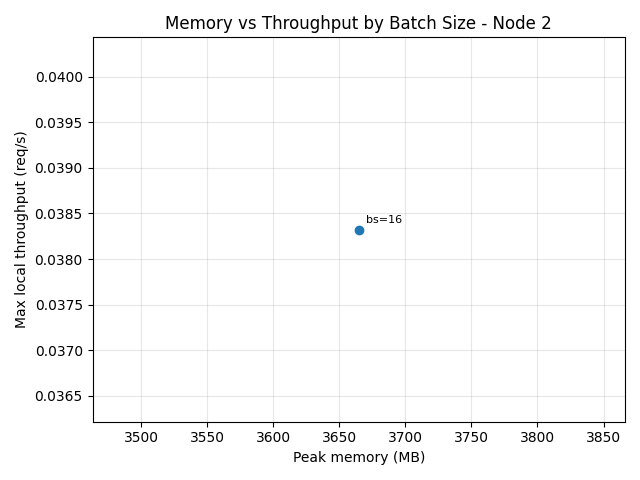
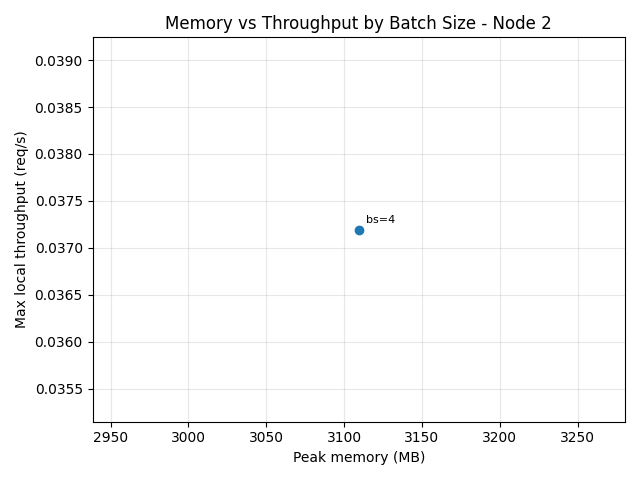
fixes for profiling

diff --git a/plot_profiling.py b/plot_profiling.py
@@ -52,7 +52,6 @@ def plot_local_throughput(dfs):
 def plot_peak_memory(dfs):
     """
     Show peak memory used by each node (single bar per node).
-    This directly satisfies: "Show the peak memory used by your processes per node".
     """
     nodes = []
     peaks = []
@@ -76,7 +75,6 @@ def plot_peak_memory(dfs):
 
 def plot_stage_breakdown_cumulative(dfs):
     for node, df in dfs.items():
-        # Pick stages based on node id
         if node == 0:
             node_stages = ["embed"]
         elif node == 1:
@@ -107,7 +105,6 @@ def plot_stage_breakdown_cumulative(dfs):
 
 def plot_stage_time_per_batch(dfs):
     for node, df in dfs.items():
-        # Pick stages based on node id
         if node == 0:
             node_stages = ["embed"]
         elif node == 1:
@@ -198,17 +195,12 @@ def plot_memory_vs_throughput_by_batch(dfs):
     """
     Show tradeoffs between throughput and memory usage across different choices
     of batch size, per node.
-
-    This becomes more interesting once you run multiple experiments with
-    different CONFIG['batch_size_*'] and produce multiple rows with different
-    batch_size values.
     """
     for node, df in dfs.items():
         if "batch_size" not in df.columns:
             print(f"[WARN] Node {node} has no batch_size column, skipping memory-vs-throughput plot.")
             continue
 
-        # Aggregate by batch_size: peak memory, max local throughput
         grouped = df.groupby("batch_size").agg({
             "memory_mb": "max",
             "local_throughput_rps": "max"
@@ -232,10 +224,6 @@ def plot_memory_vs_throughput_by_batch(dfs):
         print(f"[OUT] Saved {fname}")
 
 def plot_max_throughput_summary(dfs):
-    """
-    Measure maximum throughput in requests/minute that your system can handle,
-    per node, based on observed local_throughput_rps.
-    """
     nodes = []
     max_rpm = []
     for node, df in dfs.items():
@@ -269,22 +257,17 @@ def main():
         print("No profiling_node*.csv files found. Run the server/client first.")
         return
 
-    # Throughput vs time
     plot_local_throughput(dfs)
 
-    # Peak memory per node (instead of memory over time)
     plot_peak_memory(dfs)
 
-    # Stage timing breakdowns
     plot_stage_breakdown_cumulative(dfs)
     plot_stage_time_per_batch(dfs)
     plot_stage_breakdown_cumulative_combined(dfs)
     plot_stage_time_per_batch_combined(dfs)
 
-    # Memory vs throughput tradeoffs by batch size
     plot_memory_vs_throughput_by_batch(dfs)
 
-    # Max throughput summary in req/min
     plot_max_throughput_summary(dfs)
 
 if __name__ == "__main__":

diff --git a/client_throughput.py b/client_throughput.py
@@ -1,9 +1,7 @@
 #!/usr/bin/env python3
 """
-High-load client for measuring max throughput of the ML pipeline.
-
 Spawns multiple worker threads. Each worker sends requests in a tight loop
-until TEST_DURATION seconds have elapsed. At the end, we compute
+until TEST_DURATION seconds have elapsed. At the end, compute
 total successful requests and convert to requests/minute.
 """
 
@@ -17,7 +15,7 @@ from typing import Dict, List
 NODE_0_IP = os.environ.get("NODE_0_IP", "localhost:8000")
 SERVER_URL = f"http://{NODE_0_IP}/query"
 
-NUM_WORKERS = 1
+NUM_WORKERS = 4
 TEST_DURATION = 120
 
 TEST_QUERIES = [
@@ -34,7 +32,7 @@ TEST_QUERIES = [
 results_lock = threading.Lock()
 success_count = 0
 failure_count = 0
-latencies: List[float] = []  # optional: end-to-end latency under high load
+latencies: List[float] = []
 
 
 def worker_thread(worker_id: int, stop_time: float):
@@ -67,13 +65,12 @@ def worker_thread(worker_id: int, stop_time: float):
 
 def main():
     print("=" * 70)
-    print("HIGH-LOAD THROUGHPUT TEST CLIENT")
+    print("THROUGHPUT TEST CLIENT")
     print("=" * 70)
     print(f"Server URL: {SERVER_URL}")
     print(f"Workers: {NUM_WORKERS}, Duration: {TEST_DURATION}s")
     print("=" * 70)
 
-    # Optional: health check
     try:
         health = requests.get(f"http://{NODE_0_IP}/health", timeout=5)
         print("Health:", health.status_code, health.text)
@@ -111,13 +108,12 @@ def main():
     print(f"Failed: {total_fail}")
     print(f"Max observed throughput: {rpm:.1f} successful requests/min")
 
-    # Optional: latency stats under high load
     if latencies:
         import statistics
         avg = statistics.mean(latencies)
         med = statistics.median(latencies)
         p95 = sorted(latencies)[int(0.95 * len(latencies)) - 1]
-        print("\nLatency under high load:")
+        print("\nLatency under load:")
         print(f"  Avg: {avg:.2f}s, Median: {med:.2f}s, p95: {p95:.2f}s")
 
 

diff --git a/pipeline.py b/pipeline.py
@@ -55,9 +55,9 @@ CONFIG = {
     'retrieval_k': 10, 
     'truncate_length': 512,
     'default_batch_size': 8,
-    'batch_size_node0': 16,
-    'batch_size_node1': 16,
-    'batch_size_node2': 16
+    'batch_size_node0': 4,
+    'batch_size_node1': 8,
+    'batch_size_node2': 4
 }
 
 # Compression toggle for inter-node communication
